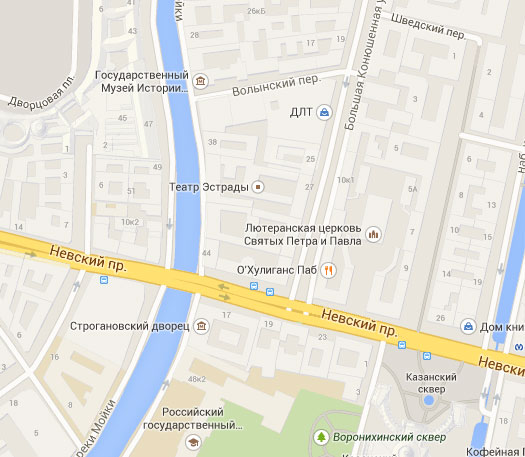
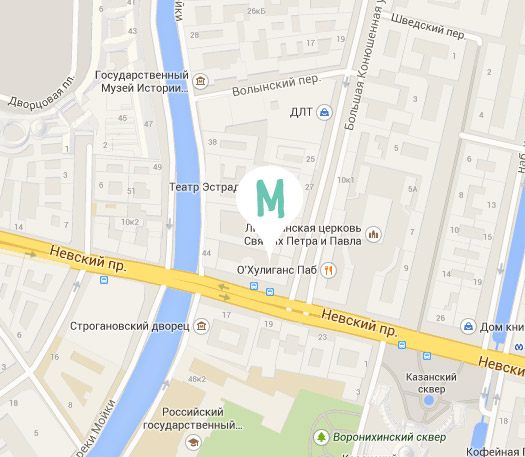
добавил карту

Changed region(s): [[0.4571, 0.3676, 0.579, 0.5514], [0.7314, 0.7352, 0.7924, 0.7659]]

diff --git a/src/index.html b/src/index.html
@@ -9,6 +9,7 @@
       document.createElement( "picture" );
     </script>
     <script src="js/libs/picturefill.min.js" async></script>
+
     <link rel="stylesheet" href="css/style.min.css">
   </head>
   <body>
@@ -198,7 +199,7 @@
             </tr>
           </table>
         </div>
-        <div class="map">
+        <div class="map" id="map">
           <div class="map__image">
             <picture>
               <source media="(min-width:1150px)" srcset="img/map-desktop@1x.jpg">
@@ -269,5 +270,7 @@
     </div>
     <div class="overlay"></div>
     <script src="js/script.min.js"></script>
+    <script src="https://maps.googleapis.com/maps/api/js?key=AIzaSyDTZpo0afqzEk9kv9OJFy1jgGgBIBm2k4M&callback=initMap" async defer>
+    </script>
   </body>
 </html>

diff --git a/src/js/map.js b/src/js/map.js
@@ -1,0 +1,15 @@
+function initMap() {
+  var myLatLng = {lat: 59.936350, lng: 30.321120};
+  var map = new google.maps.Map(document.getElementById("map"), {
+    center: {lat: 59.936343, lng: 30.321770},
+    zoom: 16,
+    disableDefaultUI: true
+  });
+  var image = "img/icon-map-pin.png";
+  var marker = new google.maps.Marker({
+    position: myLatLng,
+    map: map,
+    icon: image,
+    title: "Mishka"
+  });
+};

diff --git a/src/less/blocks/map.less b/src/less/blocks/map.less
@@ -2,7 +2,7 @@
   display: block;
   width: 100%;
   min-width: @screen-mobile;
-  height: auto;
+  height: 458px;
   margin-top: 35px;
   margin-bottom: 40px;
   background-color: @gray-95;
